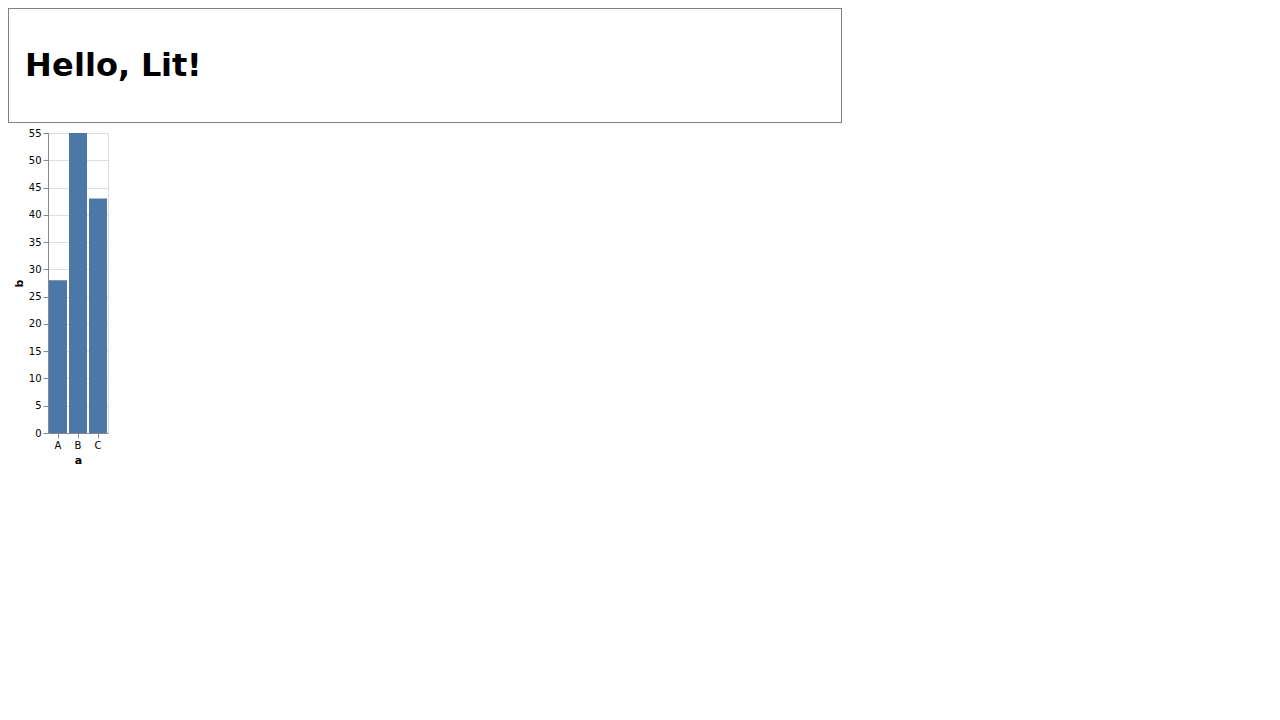
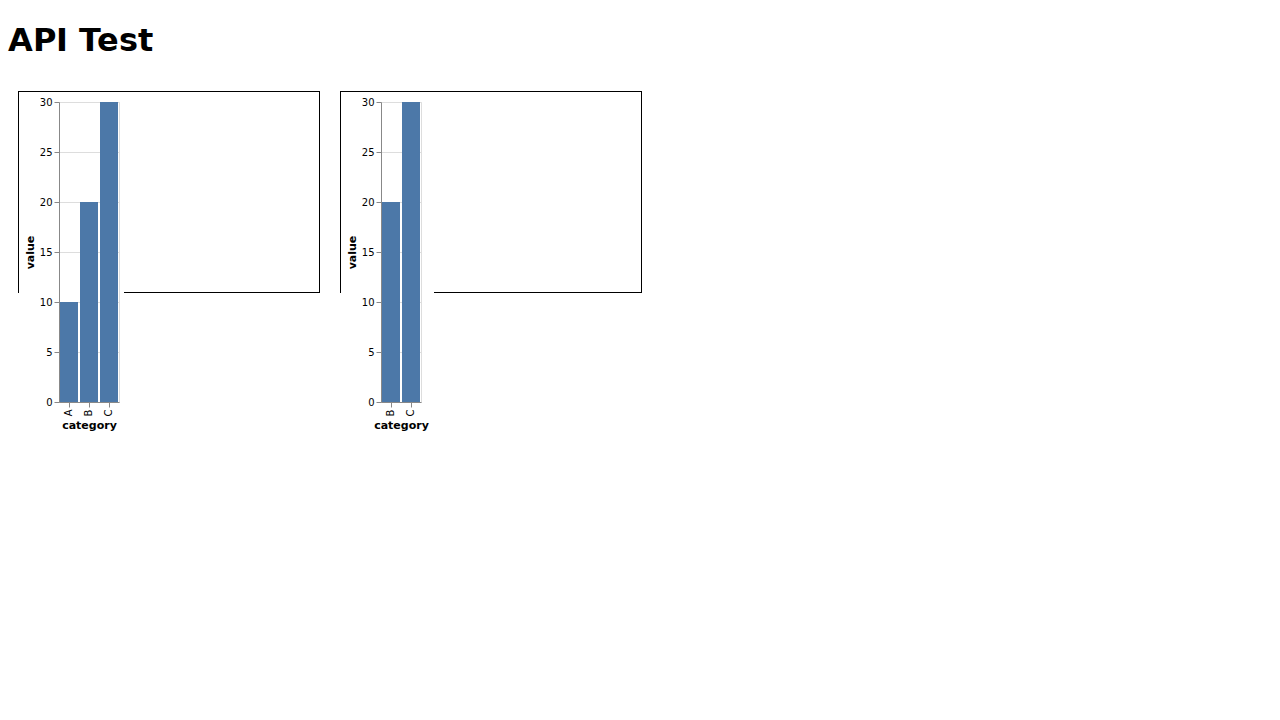
Add API to load and filter data for multiple Vega components
- Added `data` property to `VegaLiteComponent` to allow injecting data values into the spec.
- Created `DataController` class to manage data loading, storage, and distribution to components.
- Implemented `register` method in `DataController` to subscribe components to datasets with optional filtering.
- Exported `DataController` from the main module.
- Added unit tests for `DataController` and integration tests for `VegaLiteComponent`.

Changed region(s): [[0.0, 0.0306, 0.1562, 0.6417], [0.25, 0.1222, 0.3438, 0.6111]]

diff --git a/src/data-controller.ts b/src/data-controller.ts
@@ -1,0 +1,79 @@
+import { VegaLiteComponent } from './vega-lite-component';
+
+type FilterPredicate = (item: any) => boolean;
+
+interface Subscriber {
+  component: VegaLiteComponent;
+  filter?: FilterPredicate;
+}
+
+export class DataController {
+  private datasets: Map<string, any[]> = new Map();
+  private subscribers: Map<string, Set<Subscriber>> = new Map();
+
+  async load(datasetName: string, url: string): Promise<void> {
+    try {
+      const response = await fetch(url);
+      if (!response.ok) {
+        throw new Error(`Failed to fetch data from ${url}: ${response.statusText}`);
+      }
+      const data = await response.json();
+      this.setData(datasetName, data);
+    } catch (error) {
+      console.error(`Error loading dataset ${datasetName}:`, error);
+      throw error;
+    }
+  }
+
+  setData(datasetName: string, data: any[]) {
+    this.datasets.set(datasetName, data);
+    this.notify(datasetName);
+  }
+
+  getData(datasetName: string): any[] | undefined {
+    return this.datasets.get(datasetName);
+  }
+
+  register(datasetName: string, component: VegaLiteComponent, filter?: FilterPredicate) {
+    if (!this.subscribers.has(datasetName)) {
+      this.subscribers.set(datasetName, new Set());
+    }
+    this.subscribers.get(datasetName)!.add({ component, filter });
+
+    // Initial update if data exists
+    if (this.datasets.has(datasetName)) {
+      this.updateComponent(component, this.datasets.get(datasetName)!, filter);
+    }
+  }
+
+  unregister(datasetName: string, component: VegaLiteComponent) {
+    const subs = this.subscribers.get(datasetName);
+    if (subs) {
+      for (const sub of subs) {
+        if (sub.component === component) {
+          subs.delete(sub);
+          return;
+        }
+      }
+      if (subs.size === 0) {
+        this.subscribers.delete(datasetName);
+      }
+    }
+  }
+
+  private notify(datasetName: string) {
+    const data = this.datasets.get(datasetName);
+    if (!data) return;
+    const subs = this.subscribers.get(datasetName);
+    if (subs) {
+      for (const sub of subs) {
+        this.updateComponent(sub.component, data, sub.filter);
+      }
+    }
+  }
+
+  private updateComponent(component: VegaLiteComponent, data: any[], filter?: FilterPredicate) {
+    const dataToSet = filter ? data.filter(filter) : data;
+    component.data = dataToSet;
+  }
+}

diff --git a/src/data-controller.test.ts b/src/data-controller.test.ts
@@ -1,0 +1,76 @@
+import { describe, it, expect, vi, beforeEach } from 'vitest';
+import { DataController } from './data-controller';
+import { VegaLiteComponent } from './vega-lite-component';
+
+// Mock VegaLiteComponent
+class MockComponent {
+    data: any[] | null = null;
+}
+
+describe('DataController', () => {
+  let controller: DataController;
+  let component1: any;
+  let component2: any;
+
+  beforeEach(() => {
+    controller = new DataController();
+    component1 = new MockComponent();
+    component2 = new MockComponent();
+
+    // Mock fetch
+    global.fetch = vi.fn();
+  });
+
+  it('loads data and notifies listeners', async () => {
+    const mockData = [{ id: 1 }, { id: 2 }];
+    (global.fetch as any).mockResolvedValue({
+      ok: true,
+      json: async () => mockData,
+    });
+
+    controller.register('test-data', component1);
+    await controller.load('test-data', 'http://example.com/data.json');
+
+    expect(component1.data).toEqual(mockData);
+  });
+
+  it('filters data for subscribers', async () => {
+    const mockData = [{ id: 1, val: 10 }, { id: 2, val: 20 }];
+    controller.setData('test-data', mockData);
+
+    controller.register('test-data', component1, (d: any) => d.val > 15);
+
+    expect(component1.data).toEqual([{ id: 2, val: 20 }]);
+  });
+
+  it('updates existing subscribers when data changes', async () => {
+      controller.register('test-data', component1);
+
+      const data1 = [{ id: 1 }];
+      controller.setData('test-data', data1);
+      expect(component1.data).toEqual(data1);
+
+      const data2 = [{ id: 2 }];
+      controller.setData('test-data', data2);
+      expect(component1.data).toEqual(data2);
+  });
+
+  it('provides initial data on registration', () => {
+      const data = [{ id: 1 }];
+      controller.setData('test-data', data);
+
+      controller.register('test-data', component1);
+      expect(component1.data).toEqual(data);
+  });
+
+  it('unregisters components', () => {
+      controller.register('test-data', component1);
+      controller.unregister('test-data', component1);
+
+      controller.setData('test-data', [{ id: 1 }]);
+
+      component1.data = null;
+      controller.setData('test-data', [{ id: 2 }]);
+      expect(component1.data).toBeNull();
+  });
+});

diff --git a/src/vega-lite-component.test.ts b/src/vega-lite-component.test.ts
@@ -32,4 +32,41 @@ describe('VegaLiteComponent', () => {
     expect(el.spec).toEqual(spec);
     expect(el.shadowRoot?.querySelector('#vis')).toBeTruthy();
   });
+
+  it('updates visualization when data property is set', async () => {
+    const spec = {
+      "$schema": "https://vega.github.io/schema/vega-lite/v5.json",
+      "data": { "values": [] },
+      "mark": "bar",
+      "encoding": {
+        "x": {"field": "a", "type": "ordinal"},
+        "y": {"field": "b", "type": "quantitative"}
+      }
+    };
+
+    const el = document.createElement('vega-lite-component') as VegaLiteComponent;
+    document.body.appendChild(el);
+    el.spec = spec as any;
+
+    await new Promise((resolve) => el.addEventListener('vega-rendered', resolve, { once: true }));
+
+    const data = [
+      {a: 'A', b: 28}, {a: 'B', b: 55}, {a: 'C', b: 43}
+    ];
+
+    let view: any;
+    const renderedAgain = new Promise<void>((resolve) => {
+      el.addEventListener('vega-rendered', (e: any) => {
+        view = e.detail.view;
+        resolve();
+      }, { once: true });
+    });
+
+    el.data = data;
+
+    await renderedAgain;
+
+    expect(view).toBeTruthy();
+    expect(el.data).toEqual(data);
+  });
 });

diff --git a/src/vega-lite-component.ts b/src/vega-lite-component.ts
@@ -19,6 +19,9 @@ export class VegaLiteComponent extends LitElement {
   @property({ type: Object })
   spec: VisualizationSpec | null = null;
 
+  @property({ type: Array })
+  data: any[] | null = null;
+
   @query('#vis')
   visContainer!: HTMLDivElement;
 
@@ -27,7 +30,7 @@ export class VegaLiteComponent extends LitElement {
 
   override updated(changedProperties: PropertyValueMap<any> | Map<PropertyKey, unknown>) {
     super.updated(changedProperties);
-    if (changedProperties.has('spec') && this.spec) {
+    if ((changedProperties.has('spec') || changedProperties.has('data')) && this.spec) {
       this.renderVega();
     }
   }
@@ -53,7 +56,12 @@ export class VegaLiteComponent extends LitElement {
     try {
       this.finalizeView();
 
-      const result = await embed(this.visContainer, this.spec, { actions: false });
+      let spec = this.spec;
+      if (this.data) {
+        spec = { ...this.spec, data: { values: this.data } };
+      }
+
+      const result = await embed(this.visContainer, spec, { actions: false });
 
       if (this._renderId !== currentRenderId) {
         // A new render started while we were waiting, so discard this result

diff --git a/src/index.ts b/src/index.ts
@@ -1,2 +1,3 @@
 export * from './my-element';
 export * from './vega-lite-component';
+export * from './data-controller';
